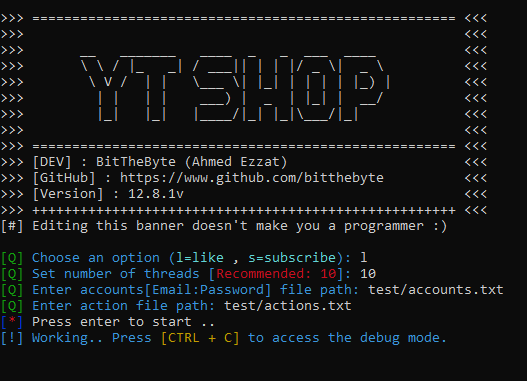
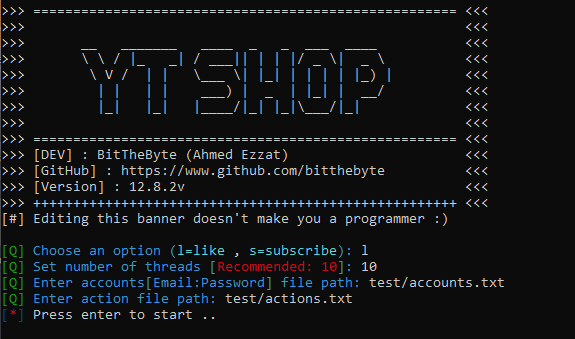
version:12.8.2

Changed region(s): [[0.0, 0.0, 0.9715, 0.9735], [0.1214, 0.1475, 0.759, 0.354], [0.7894, 0.118, 0.8501, 0.3245]]

diff --git a/lib/auth.py b/lib/auth.py
@@ -79,16 +79,15 @@ class GAuth(object):
 		}
 
 		# Request has problem encoding this.
-		data = 'f.req=%5B%22{}%22%2Cnull%2C1%2Cnull%2C%5B1%2Cnull%2Cnull%2Cnull%2C%5B%22{}%22%2Cnull%2Ctrue%5D%5D%2C%5Bnull%2Cnull%2C%5B2%2C1%2Cnull%2C1%2C%22https%3A%2F%2Faccounts.google.com%2FServiceLogin%3Fhl%3Den%26passive%3Dtrue%26continue%3Dhttps%253A%252F%252Fwww.google.com.eg%252F%22%2Cnull%2C%5B%5D%2C4%2C%5B%5D%2C%22GlifWebSignIn%22%5D%2C1%2C%5Bnull%2Cnull%2C%5B%5D%2Cnull%2Cnull%2Cnull%2Cnull%2Cnull%2Cnull%2Cnull%2Cnull%2Cnull%2Cnull%2Cnull%2Cnull%2Cnull%2Cnull%2Cnull%2Cnull%2Cnull%2Cnull%2Cnull%2Cnull%2Cnull%2Cnull%2C%5B%5D%2Cnull%2Cnull%2Cnull%2C%5B%5D%2C%5B%5D%5D%2Cnull%2Cnull%2Cnull%2Ctrue%5D%5D&continue=https%3A%2F%2Fwww.google.com.eg%2F&pstMsg=1&hl=en&checkedDomains=youtube&gmscoreversion=undefined&cookiesDisabled=false&deviceinfo=%5Bnull%2Cnull%2Cnull%2C%5B%5D%2Cnull%2C%22EG%22%2Cnull%2Cnull%2C%5B%5D%2C%22GlifWebSignIn%22%2Cnull%2C%5Bnull%2Cnull%2C%5B%5D%2Cnull%2Cnull%2Cnull%2Cnull%2Cnull%2Cnull%2Cnull%2Cnull%2Cnull%2Cnull%2Cnull%2Cnull%2Cnull%2Cnull%2Cnull%2Cnull%2Cnull%2Cnull%2Cnull%2Cnull%2Cnull%2Cnull%2C%5B%5D%2Cnull%2Cnull%2Cnull%2C%5B%5D%2C%5B%5D%5D%5D&checkConnection=youtube%3A365%3A1'
+		data = 'continue=https%3A%2F%2Fwww.google.com%2F%3Fgws_rd%3Dssl&hl=en&f.req=%5B%22{}%22%2Cnull%2C1%2Cnull%2C%5B1%2Cnull%2Cnull%2Cnull%2C%5B%22{}%22%2Cnull%2Ctrue%5D%5D%2C%5Bnull%2Cnull%2C%5B2%2C1%2Cnull%2C1%2C%22https%3A%2F%2Faccounts.google.com%2FServiceLogin%3Fhl%3Den%26passive%3Dtrue%26continue%3Dhttps%253A%252F%252Fwww.google.com%252F%253Fgws_rd%253Dssl%22%2Cnull%2C%5B%5D%2C4%2C%5B%5D%2C%22GlifWebSignIn%22%5D%2C1%2C%5Bnull%2Cnull%2C%5B%5D%2Cnull%2Cnull%2Cnull%2Cnull%2Cnull%2Cnull%2Cnull%2Cnull%2Cnull%2Cnull%2Cnull%2Cnull%2Cnull%2Cnull%2Cnull%2Cnull%2Cnull%2Cnull%2Cnull%2Cnull%2Cnull%2Cnull%2C%5B%5D%2Cnull%2Cnull%2Cnull%2C%5B%5D%2C%5B%5D%5D%2Cnull%2Cnull%2Cnull%2Ctrue%5D%5D&bgRequest=%5B%22identifier%22%2C%22%22%5D&bghash=&azt=&cookiesDisabled=false&deviceinfo=%5Bnull%2Cnull%2Cnull%2C%5B%5D%2Cnull%2C%22EG%22%2Cnull%2Cnull%2C%5B%5D%2C%22GlifWebSignIn%22%2Cnull%2C%5Bnull%2Cnull%2C%5B%5D%2Cnull%2Cnull%2Cnull%2Cnull%2Cnull%2Cnull%2Cnull%2Cnull%2Cnull%2Cnull%2Cnull%2Cnull%2Cnull%2Cnull%2Cnull%2Cnull%2Cnull%2Cnull%2Cnull%2Cnull%2Cnull%2Cnull%2C%5B%5D%2Cnull%2Cnull%2Cnull%2C%5B%5D%2C%5B%5D%5D%5D&gmscoreversion=undefined&checkConnection=youtube%3A395%3A1&checkedDomains=youtube&pstMsg=1&'
 		data = data.format(self.__g_token(),urllib.quote(self.password))
 
 		response = self.session.post('https://accounts.google.com/_/signin/sl/challenge', headers=headers, data=data, verify=False)
-		#print response.content
+
 		if "CheckCookie" in response.content:
 			return ({"status":1,"session":self.session})
 
 		if "INCORRECT_ANSWER_ENTERED" in response.content:
 			raise execption.LoginFailed()
-			#return ({"status":0,"session":self.session})
 
-		return ({"status":-999,"session":self.session})
+		raise execption.LoginFailed()

diff --git a/yt.py b/yt.py
@@ -6,32 +6,27 @@ import lib.cli as cli
 import threading
 import signal
 
-
 cli.banner()
-action 		= cli.ask_action()
-threader 	= Threader(cli.ask_threads())
-accounts_path 	= cli.ask_accounts_file()
-action_path 	= cli.ask_action_file()
-
-
-lock = threading.Lock()
-login_successful=0
-login_failed=0
-action_successful = 0
-action_faild   = 0
+action             = cli.ask_action()
+threader           = Threader(cli.ask_threads())
+accounts_path      = cli.ask_accounts_file()
+action_path        = cli.ask_action_file()
+lock               = threading.Lock()
+login_successful   = 0
+login_failed       = 0
+action_successful  = 0
+action_faild       = 0
 
 
 def Login(email,password):
 	global login_successful
 	global login_failed
 	with lock:
-
 		try:
 			google = GAuth(email, password)
 			status = google.ServiceLogin('youtube','https://www.youtube.com/signin?app=desktop&next=%2F&hl=en&action_handle_signin=true')
 			login_successful += 1
 			return status
-		
 		except err.LoginFailed:
 			login_failed += 1
 			return -1
@@ -39,7 +34,6 @@ def Login(email,password):
 def Like(email,password,video_id):
 	global action_successful
 	global action_faild
-
 	session = Login(email, password)
 	with lock:
 		if session == -1:
@@ -47,19 +41,15 @@ def Like(email,password,video_id):
 			action_faild += 1
 		else:
 			status = YT.like(video_id, session)
-
 			if status == 1 : action_successful += 1
 			else: action_faild += 1
-
 			cli.debug("Like: [%s:%s]:LOGGED -> %s:%i" %(email,password,video_id,status) )
-		
 
 def Subscribe(email,password,channel_id):
 	global action_successful
 	global action_faild
 	session = Login(email, password)
 	with lock:
-		
 		if session == -1:
 			cli.debug("Sub: [%s:%s]:UNAUTH -> %s:0" %(email,password,channel_id) )
 			action_faild += 1
@@ -67,10 +57,7 @@ def Subscribe(email,password,channel_id):
 			status = YT.subscribe(channel_id, session)
 			if status == 1 : action_successful += 1
 			else: action_faild += 1
-
 			cli.debug("Sub: [%s:%s]:LOGGED -> %s:%i" %(email,password,channel_id,status) )	
-
-
 
 def signal_handler(sig, frame):
 	cli.debug_mode = 1
@@ -84,5 +71,4 @@ for yt_id in cli.read_action_file(action_path):
 			threader.put(Like,[credentials[0],credentials[1],yt_id])
 		elif action == "s":
 			threader.put(Subscribe,[credentials[0],credentials[1],yt_id])
-
 threader.finish_all()

diff --git a/lib/action.py b/lib/action.py
@@ -8,31 +8,25 @@ except:
 
 def subscribe(channel_id,session):
 		xsrf = (re.findall("XSRF_TOKEN\W*(.*)=", session.get("https://www.youtube.com/channel/%s" % channel_id).content , re.IGNORECASE)[0]).split('"')[0]
-
 		data = [
 		  ('sej', '{"clickTrackingParams":"","commandMetadata":{"webCommandMetadata":{"url":"/service_ajax","sendPost":true}},"subscribeEndpoint":{"channelIds":["'+channel_id+'"],"params":"EgIIAg%3D%3D"}}'),
 		  ('session_token', xsrf+"=="),
 		]
 		response = session.post('https://www.youtube.com/service_ajax?name=subscribeEndpoint', data=data)
-		
 		check_state = json.loads(response.content)['code']
 		if check_state == "SUCCESS":
 			return 1
 		else:
 			return 0
 
-
 def like(video_id,session):
-
 	xsrf = (re.findall("XSRF_TOKEN\W*(.*)=", session.get("https://youtube.com/watch?v=%s" % video_id).content , re.IGNORECASE)[0]).split('"')[0]
 	data = [
 	  ('sej', '{"clickTrackingParams":"","commandMetadata":{"webCommandMetadata":{"url":"/service_ajax","sendPost":true}},"likeEndpoint":{"status":"LIKE","target":{"videoId":"'+video_id+'"}}}'),
 	  ('session_token',xsrf + "=="),
 	]
 	response = session.post('https://www.youtube.com/service_ajax?name=likeEndpoint', data=data)
-
 	if "Added to Liked videos" in response.content:
 		return 1
 	else:
 		return 0
-

diff --git a/lib/cli.py b/lib/cli.py
@@ -2,7 +2,6 @@ from __future__ import print_function
 import colorama 
 import os
 
-
 try:
     input = raw_input
 except NameError:
@@ -23,7 +22,7 @@ def banner():
 >>> ===================================================== <<<
 >>> [DEV] : BitTheByte (Ahmed Ezzat)                      <<<
 >>> [GitHub] : https://www.github.com/bitthebyte          <<<
->>> [Version] : 12.8.1v                                   <<<
+>>> [Version] : 12.8.2v                                   <<<
 >>> +++++++++++++++++++++++++++++++++++++++++++++++++++++ <<<
 [#] Editing this banner doesn't make you a programmer :)
 """
@@ -78,7 +77,6 @@ def ask_action_file():
 		else:
 			return path
 
-
 def ask_action():
 	while 1:
 		action = input("{C0}[Q] {C1}Choose an option ({C3}l=like {C4}, {C3}s=subscribe{C1}): ".format(
@@ -103,7 +101,6 @@ def read_action_file(path):
 	for line in file:
 		token = line.strip()
 		yield token
-
 
 def show_status(login,failed,succ1,fail1):
 	os.system("cls")
@@ -137,8 +134,6 @@ def show_status(login,failed,succ1,fail1):
 			C3=colorama.Fore.CYAN,
 			text=fail1
 		))
-
-
 
 def menu_msg():
 	input("{C0}[{C1}*{C0}] {C2}Press enter to start .. ".format(

diff --git a/lib/multi.py b/lib/multi.py
@@ -2,7 +2,6 @@ try:
 	import queue
 except Exception as e:
 	import Queue as queue
-
 import threading
 
 class Threader:
@@ -25,10 +24,8 @@ class Threader:
 			if len(remain) == 0:
 				break
 
-
 	def on_waiting(self):
 		return self.q.qsize()
-
 
 	def pop(self):
 		return self.q.queue.pop()
@@ -45,4 +42,3 @@ class Threader:
 		if self.q.qsize() >= self.pool_size:
 			for _ in xrange(self.q.qsize()): self.__t()
 			self.__wait()
-

diff --git a/README.md b/README.md
@@ -14,7 +14,7 @@ Youtube bot for auto-like and auto-subscribe
 >>> ===================================================== <<<
 >>> [DEV] : BitTheByte (Ahmed Ezzat)                      <<<
 >>> [GitHub] : https://www.github.com/bitthebyte          <<<
->>> [Version] : 12.8.1v                                   <<<
+>>> [Version] : 12.8.2v                                   <<<
 >>> +++++++++++++++++++++++++++++++++++++++++++++++++++++ <<<
 ```
 ```bash
@@ -76,15 +76,8 @@ UCto7D1L-MiRoOziCXK9uT5Q
 [❓]: Program asking me to `Enter action file path`  
 [A]:  The action file is the file which has the channels/videos IDs in it. Refear to [Subscription](#subscription) or [Like](#like) section to know how to create one
 
-# Updates
-**11/04/2018**: This tools is not working any more please help if you can .. updates are coming soon ⚡  
-**11/04/2018**: Back to work! however the fix is unstable and may result in false positives 😃  
-**01/24/2019**: The ultimate update!  
-**02/27/2019**: Fixed alot of typing mistakes and program logic 
-
-
 # TO-DO
-- Post a comment (Scheduled to the next public release)
+- Post a comment (Scheduled to the next public release)(Delayed)
 - Post a random comment based on channel's comments and users
 - Local proxy connection (For debugging)  ✓
 - Local web sever to manage the ouput instead of the console
